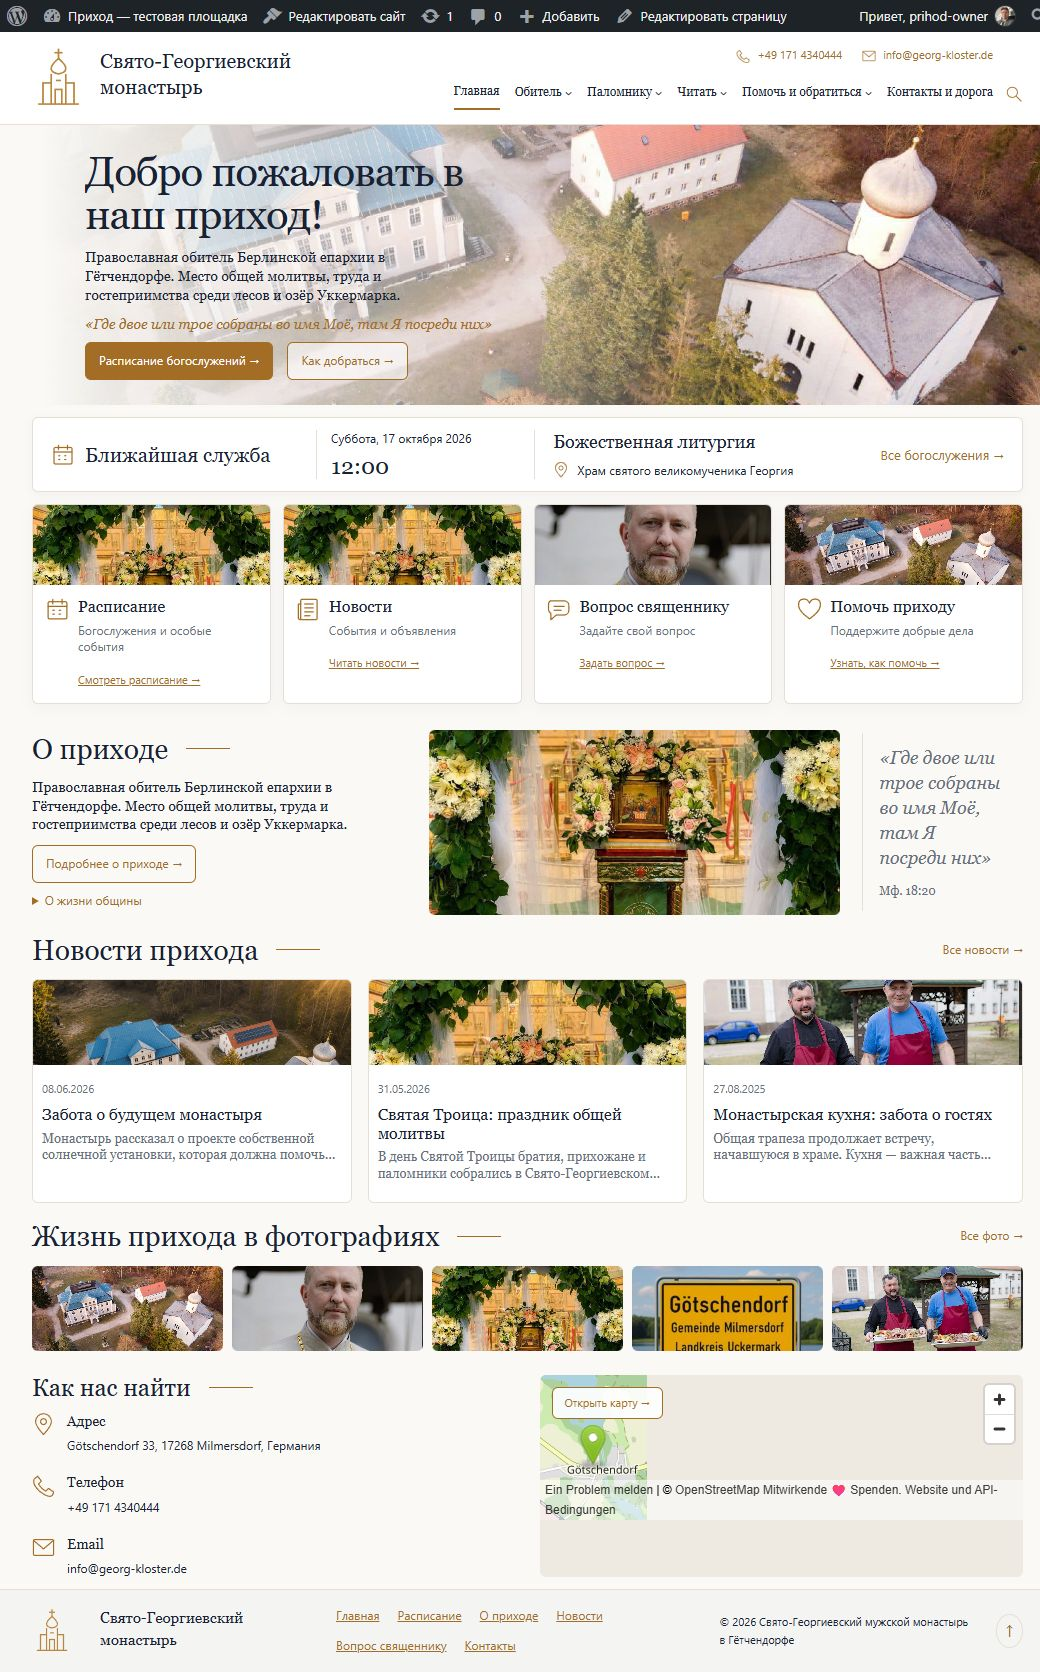
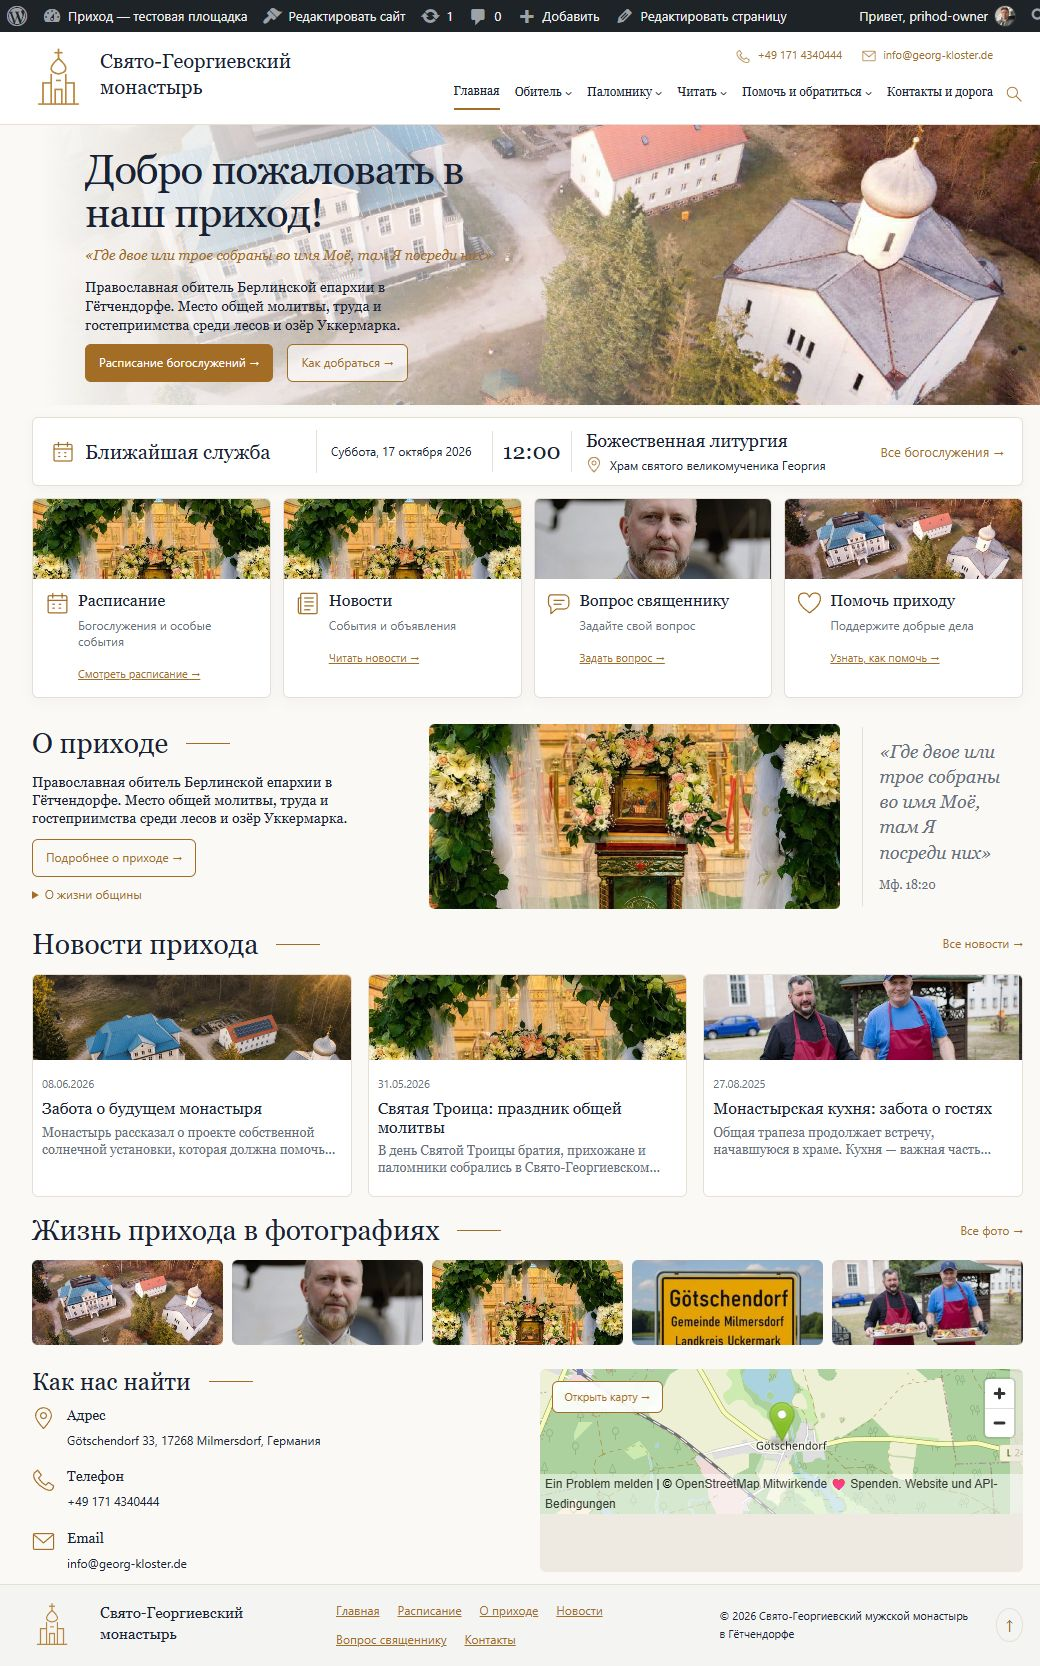
Refine classic hero and service strip

diff --git a/prihod-theme/assets/reference.css b/prihod-theme/assets/reference.css
@@ -79,3 +79,5 @@
 @media(min-width:901px){.prihod-scheme-blue .prihod-home-gallery{display:grid;grid-template-columns:minmax(0,1fr) 70px;column-gap:12px;align-items:center}.prihod-scheme-blue .prihod-home-gallery>.prihod-section-title{grid-column:1/-1}.prihod-scheme-blue .prihod-photo-strip{display:flex;overflow-x:auto;gap:8px;scrollbar-width:none}.prihod-scheme-blue .prihod-photo-strip img{flex:0 0 calc((100% - 40px)/6);width:calc((100% - 40px)/6);height:85px}.prihod-scheme-blue .prihod-gallery-controls{position:static;margin:0;justify-content:center}.prihod-scheme-blue .prihod-gallery-controls button{width:30px;height:30px}.prihod-scheme-blue .prihod-contact-list{padding-top:55px}}
 @media(max-width:900px){.prihod-scheme-blue .prihod-gallery-controls{position:static;justify-content:flex-end;margin:10px 0}}
 .prihod-contact-map>.prihod-button{bottom:auto;top:12px;left:12px;right:auto}
+/* Classic reference: date and time are adjacent columns, independent of title. */
+@media(min-width:901px){.prihod-scheme-classic .prihod-hero-copy>.prihod-verse{margin:8px 0 12px}.prihod-scheme-classic .prihod-hero-service .prihod-service-details{grid-template-columns:minmax(115px,1fr) 80px minmax(0,1.7fr);gap:5px 14px}.prihod-scheme-classic .prihod-hero-service .prihod-service-when{display:contents}.prihod-scheme-classic .prihod-hero-service .prihod-service-when>span{grid-column:1;grid-row:1/3;align-self:stretch;display:flex;align-items:center;border-left:1px solid var(--prihod-line);padding-left:14px}.prihod-scheme-classic .prihod-hero-service .prihod-service-when>time{grid-column:2;grid-row:1/3;display:flex;align-items:center;justify-content:center;border-left:1px solid var(--prihod-line);border-right:1px solid var(--prihod-line);padding:8px}.prihod-scheme-classic .prihod-hero-service .prihod-service-details>h3{grid-column:3;grid-row:1}.prihod-scheme-classic .prihod-hero-service .prihod-service-details>p{grid-column:3;grid-row:2}}

diff --git a/prihod-theme/style.css b/prihod-theme/style.css
@@ -1,7 +1,7 @@
 /*
 Theme Name: Приход
 Description: Необязательная блоковая тема для православного прихода. Работает со стандартными страницами и записями WordPress.
-Version: 0.3.4
+Version: 0.3.5
 Requires at least: 6.5
 Requires PHP: 8.0
 License: GPL-2.0-or-later

diff --git a/prihod-theme/functions.php b/prihod-theme/functions.php
@@ -12,12 +12,12 @@ add_action( 'after_setup_theme', function () {
     load_theme_textdomain( 'prihod-theme', get_template_directory() . '/languages' );
     add_theme_support( 'editor-styles' ); add_editor_style( array( 'style.css', 'assets/theme.css' ) );
 } );
-add_action( 'wp_enqueue_scripts', function () { wp_enqueue_script( 'prihod-theme-gallery', get_template_directory_uri() . '/assets/gallery.js', array(), '0.3.4', true ); wp_enqueue_style( 'prihod-theme', get_stylesheet_uri(), array(), '0.3.4' ); wp_enqueue_style( 'prihod-theme-design', get_template_directory_uri() . '/assets/theme.css', array( 'prihod-theme' ), '0.3.4' ); wp_enqueue_style( 'prihod-theme-reference', get_template_directory_uri() . '/assets/reference.css', array( 'prihod-theme-design' ), '0.3.4.' . filemtime( get_template_directory() . '/assets/reference.css' ) ); } );
+add_action( 'wp_enqueue_scripts', function () { wp_enqueue_script( 'prihod-theme-gallery', get_template_directory_uri() . '/assets/gallery.js', array(), '0.3.5', true ); wp_enqueue_style( 'prihod-theme', get_stylesheet_uri(), array(), '0.3.5' ); wp_enqueue_style( 'prihod-theme-design', get_template_directory_uri() . '/assets/theme.css', array( 'prihod-theme' ), '0.3.5' ); wp_enqueue_style( 'prihod-theme-reference', get_template_directory_uri() . '/assets/reference.css', array( 'prihod-theme-design' ), '0.3.5.' . filemtime( get_template_directory() . '/assets/reference.css' ) ); } );
 add_action( 'wp_enqueue_scripts', function () {
     if ( ( ! shortcode_exists( 'kloster_form' ) && ! shortcode_exists( 'gkod_form' ) ) || empty( prihod_theme_options()['stepped_forms'] ) ) { return; }
     $dependencies = array();
     foreach ( array( 'kloster-prayer', 'georg-kloster-orthodox-donate' ) as $handle ) { if ( wp_script_is( $handle, 'registered' ) ) { $dependencies[] = $handle; } }
-    wp_enqueue_script( 'prihod-theme-forms', get_template_directory_uri() . '/assets/forms.js', $dependencies, '0.3.4', true );
+    wp_enqueue_script( 'prihod-theme-forms', get_template_directory_uri() . '/assets/forms.js', $dependencies, '0.3.5', true );
     wp_localize_script( 'prihod-theme-forms', 'prihodFormUI', array( 'type' => __( 'Тип записки', 'prihod-theme' ), 'names' => __( 'Имена', 'prihod-theme' ), 'total' => __( 'Сумма', 'prihod-theme' ), 'amount' => __( 'Пожертвование', 'prihod-theme' ), 'contacts' => __( 'Контакты', 'prihod-theme' ), 'review' => __( 'Подтверждение', 'prihod-theme' ), 'steps' => __( 'Этапы заполнения', 'prihod-theme' ), 'back' => __( 'Назад', 'prihod-theme' ), 'next' => __( 'Продолжить', 'prihod-theme' ), 'service' => __( 'Выберите требу перед продолжением.', 'prihod-theme' ), 'check' => __( 'Проверьте перед отправкой', 'prihod-theme' ) ) );
 }, 20 );
 add_filter( 'body_class', function ( array $classes ) {
@@ -28,7 +28,7 @@ add_filter( 'body_class', function ( array $classes ) {
     $classes[] = 'prihod-scheme-' . sanitize_html_class( $scheme ); return $classes;
 } );
 function prihod_theme_register_blocks(): void {
-    wp_register_script( 'prihod-theme-blocks', get_template_directory_uri() . '/assets/editor.js', array( 'wp-blocks', 'wp-element', 'wp-server-side-render', 'wp-i18n' ), '0.3.4', true );
+    wp_register_script( 'prihod-theme-blocks', get_template_directory_uri() . '/assets/editor.js', array( 'wp-blocks', 'wp-element', 'wp-server-side-render', 'wp-i18n' ), '0.3.5', true );
     $blocks = array( 'header' => __( 'Шапка прихода', 'prihod-theme' ), 'footer' => __( 'Подвал прихода', 'prihod-theme' ), 'home' => __( 'Главная прихода', 'prihod-theme' ), 'related-posts' => __( 'Читайте также', 'prihod-theme' ), 'sidebar' => __( 'Боковая колонка', 'prihod-theme' ), 'page-heading' => __( 'Заголовок страницы', 'prihod-theme' ) );
     wp_localize_script( 'prihod-theme-blocks', 'prihodThemeBlocks', $blocks );
     foreach ( $blocks as $name => $title ) {

diff --git a/prihod-theme/includes/home.php b/prihod-theme/includes/home.php
@@ -69,8 +69,9 @@ function prihod_theme_home(): string {
     $html = '<section class="prihod-home-hero"' . ( $hero ? ' style="--prihod-hero-image:url(' . esc_url( $hero ) . ')"' : '' ) . '><div class="prihod-container prihod-hero-grid"><div class="prihod-hero-copy"><p class="prihod-eyebrow">' . esc_html__( 'Вера. Люди. Добрые дела.', 'prihod-theme' ) . '</p>';
     if ( 'tradition' === $scheme ) { $html .= '<h1>«' . esc_html__( 'Где двое или трое собраны во имя Моё, там Я посреди них', 'prihod-theme' ) . '»</h1><p class="prihod-hero-citation">' . esc_html__( 'Мф. 18:20', 'prihod-theme' ) . '</p>'; }
     else { $html .= '<h1>' . esc_html( $title ) . '</h1>'; }
+    if ( 'classic' === $scheme ) { $html .= prihod_theme_verse(); }
     $html .= '<p class="prihod-hero-description">' . esc_html( $profile['description'] ) . '</p>';
-    if ( in_array( $scheme, array( 'classic', 'hospitality' ), true ) ) { $html .= prihod_theme_verse(); }
+    if ( 'hospitality' === $scheme ) { $html .= prihod_theme_verse(); }
     if ( 'tradition' !== $scheme ) {
         $html .= '<div class="prihod-actions">';
         foreach ( array( $schedule => __( 'Расписание богослужений', 'prihod-theme' ), ( 'classic' === $scheme ? $contact : $about ) => ( 'classic' === $scheme ? __( 'Как добраться', 'prihod-theme' ) : $about_label ) ) as $url => $label ) { if ( $url ) { $html .= '<a class="prihod-button" href="' . esc_url( $url ) . '">' . esc_html( $label ) . ' →</a>'; } }

diff --git a/prihod-theme/includes/settings.php b/prihod-theme/includes/settings.php
@@ -44,9 +44,9 @@ add_action( 'admin_menu', function () {
 add_action( 'admin_enqueue_scripts', function () {
     if ( 'prihod-theme' !== ( $_GET['page'] ?? '' ) ) { return; }
     wp_enqueue_media();
-    wp_enqueue_style( 'prihod-theme-settings', get_template_directory_uri() . '/assets/settings.css', array(), '0.3.4' );
-    wp_enqueue_script( 'prihod-theme-media', get_template_directory_uri() . '/assets/media.js', array( 'jquery', 'media-views' ), '0.3.4', true );
-    wp_enqueue_script( 'prihod-theme-settings', get_template_directory_uri() . '/assets/settings.js', array(), '0.3.4', true );
+    wp_enqueue_style( 'prihod-theme-settings', get_template_directory_uri() . '/assets/settings.css', array(), '0.3.5' );
+    wp_enqueue_script( 'prihod-theme-media', get_template_directory_uri() . '/assets/media.js', array( 'jquery', 'media-views' ), '0.3.5', true );
+    wp_enqueue_script( 'prihod-theme-settings', get_template_directory_uri() . '/assets/settings.js', array(), '0.3.5', true );
 } );
 function prihod_theme_schemes(): array {
     return array( 'classic' => __( 'Классическая золотая', 'prihod-theme' ), 'hospitality' => __( 'Светлая гостеприимная', 'prihod-theme' ), 'editorial' => __( 'Журнальная', 'prihod-theme' ), 'tradition' => __( 'Традиционная', 'prihod-theme' ), 'blue' => __( 'Современная синяя', 'prihod-theme' ) );

diff --git a/tests/theme-options-smoke.php b/tests/theme-options-smoke.php
@@ -38,7 +38,7 @@ wp_trash_post( $demo['created']['photos'] );
 $after_trash = prihod_theme_import_demo( array( 'photos', 'first-visit' ) );
 prihod_assert( ! $after_trash['created'] && 'trash' === get_post_status( $demo['created']['photos'] ), 'Import does not recreate or restore a deliberately trashed demo page.' );
 
-prihod_assert( str_contains( $panel, '0.3.4' ) && ! str_contains( $panel, '<small>0.3.0' ), 'Theme panel reports the installed version.' );
+prihod_assert( str_contains( $panel, '0.3.5' ) && ! str_contains( $panel, '<small>0.3.0' ), 'Theme panel reports the installed version.' );
 $map = prihod_theme_sanitize( array( 'map_embed' => 'https://www.openstreetmap.org/export/embed.html?marker=53,13' ) );
 prihod_assert( str_contains( $map['map_embed'], '/export/embed.html' ), 'Verified OpenStreetMap embeds are accepted.' );
 foreach ( array( 'javascript:alert(1)', 'https://example.com/export/embed.html', 'https://www.openstreetmap.org.evil.test/export/embed.html', 'https://www.openstreetmap.org/user/test' ) as $url ) { prihod_assert( '' === prihod_theme_sanitize( array( 'map_embed' => $url ) )['map_embed'], 'Other iframe origins and paths are rejected.' ); }

diff --git a/tests/design-smoke.php b/tests/design-smoke.php
@@ -31,4 +31,9 @@ $original_about = $GLOBALS['post']; wp_update_post( array( 'ID' => $original_abo
 $check( 'original' === prihod_theme_about_content( 'original' ), 'About presentation preserves manually edited owner content.' );
 wp_update_post( array( 'ID' => $original_about->ID, 'post_content' => $original_about->post_content ) );
 $GLOBALS['post'] = get_post( $first['pages']['home'] );
+$_GET['prihod_preview'] = 'classic'; WP_Theme_JSON_Resolver::clean_cached_data();
+$home = prihod_theme_home();
+$quote_at = strpos( $home, '<blockquote' ); $description_at = strpos( $home, 'class="prihod-hero-description"' );
+$check( false !== $quote_at && false !== $description_at && $quote_at < $description_at, 'Classic hero places the verse before the real profile description.' );
+unset( $_GET['prihod_preview'] ); WP_Theme_JSON_Resolver::clean_cached_data();
 echo "DESIGN_SMOKE_OK: {$checks} checks.\n";

diff --git a/tests/server-check.php b/tests/server-check.php
@@ -39,7 +39,7 @@ foreach ( array( 'de_DE', 'pl_PL', 'uk' ) as $locale ) {
 }
 echo wp_json_encode( array( 'status' => 'PRIHOD_SERVER_OK', 'checks' => $checked, 'wordpress' => get_bloginfo( 'version' ), 'php' => PHP_VERSION, 'theme' => wp_get_theme()->get( 'Version' ) ), JSON_UNESCAPED_UNICODE ) . PHP_EOL;
 
-$check( '1.0.0-rc.4' === PRIHOD_VERSION && '0.3.4' === wp_get_theme()->get( 'Version' ), 'Reference-design release versions must be installed.' );
+$check( '1.0.0-rc.4' === PRIHOD_VERSION && '0.3.5' === wp_get_theme()->get( 'Version' ), 'Reference-design release versions must be installed.' );
 prihod_theme_prepare_provider_assets();
 do_shortcode( '[' . $donation_tag . ']' );
 $check( str_contains( (string) wp_scripts()->get_data( 'georg-kloster-orthodox-donate', 'data' ), 'georgKlosterOrthodoxDonate' ), 'Native donation configuration must exist before the block theme prints scripts.' );

diff --git a/scripts/package.py b/scripts/package.py
@@ -29,5 +29,5 @@ for name in ("prihod-telegram", "prihod-whatsapp", "prihod-social"):
     archive(target, f"{name}-0.1.1.zip")
 
 archive(ROOT / "prihod", "prihod-1.0.0-rc.4.zip")
-archive(ROOT / "prihod-theme", "prihod-theme-0.3.4.zip")
+archive(ROOT / "prihod-theme", "prihod-theme-0.3.5.zip")
 print("Built Core, theme and three independent connector ZIPs.")
